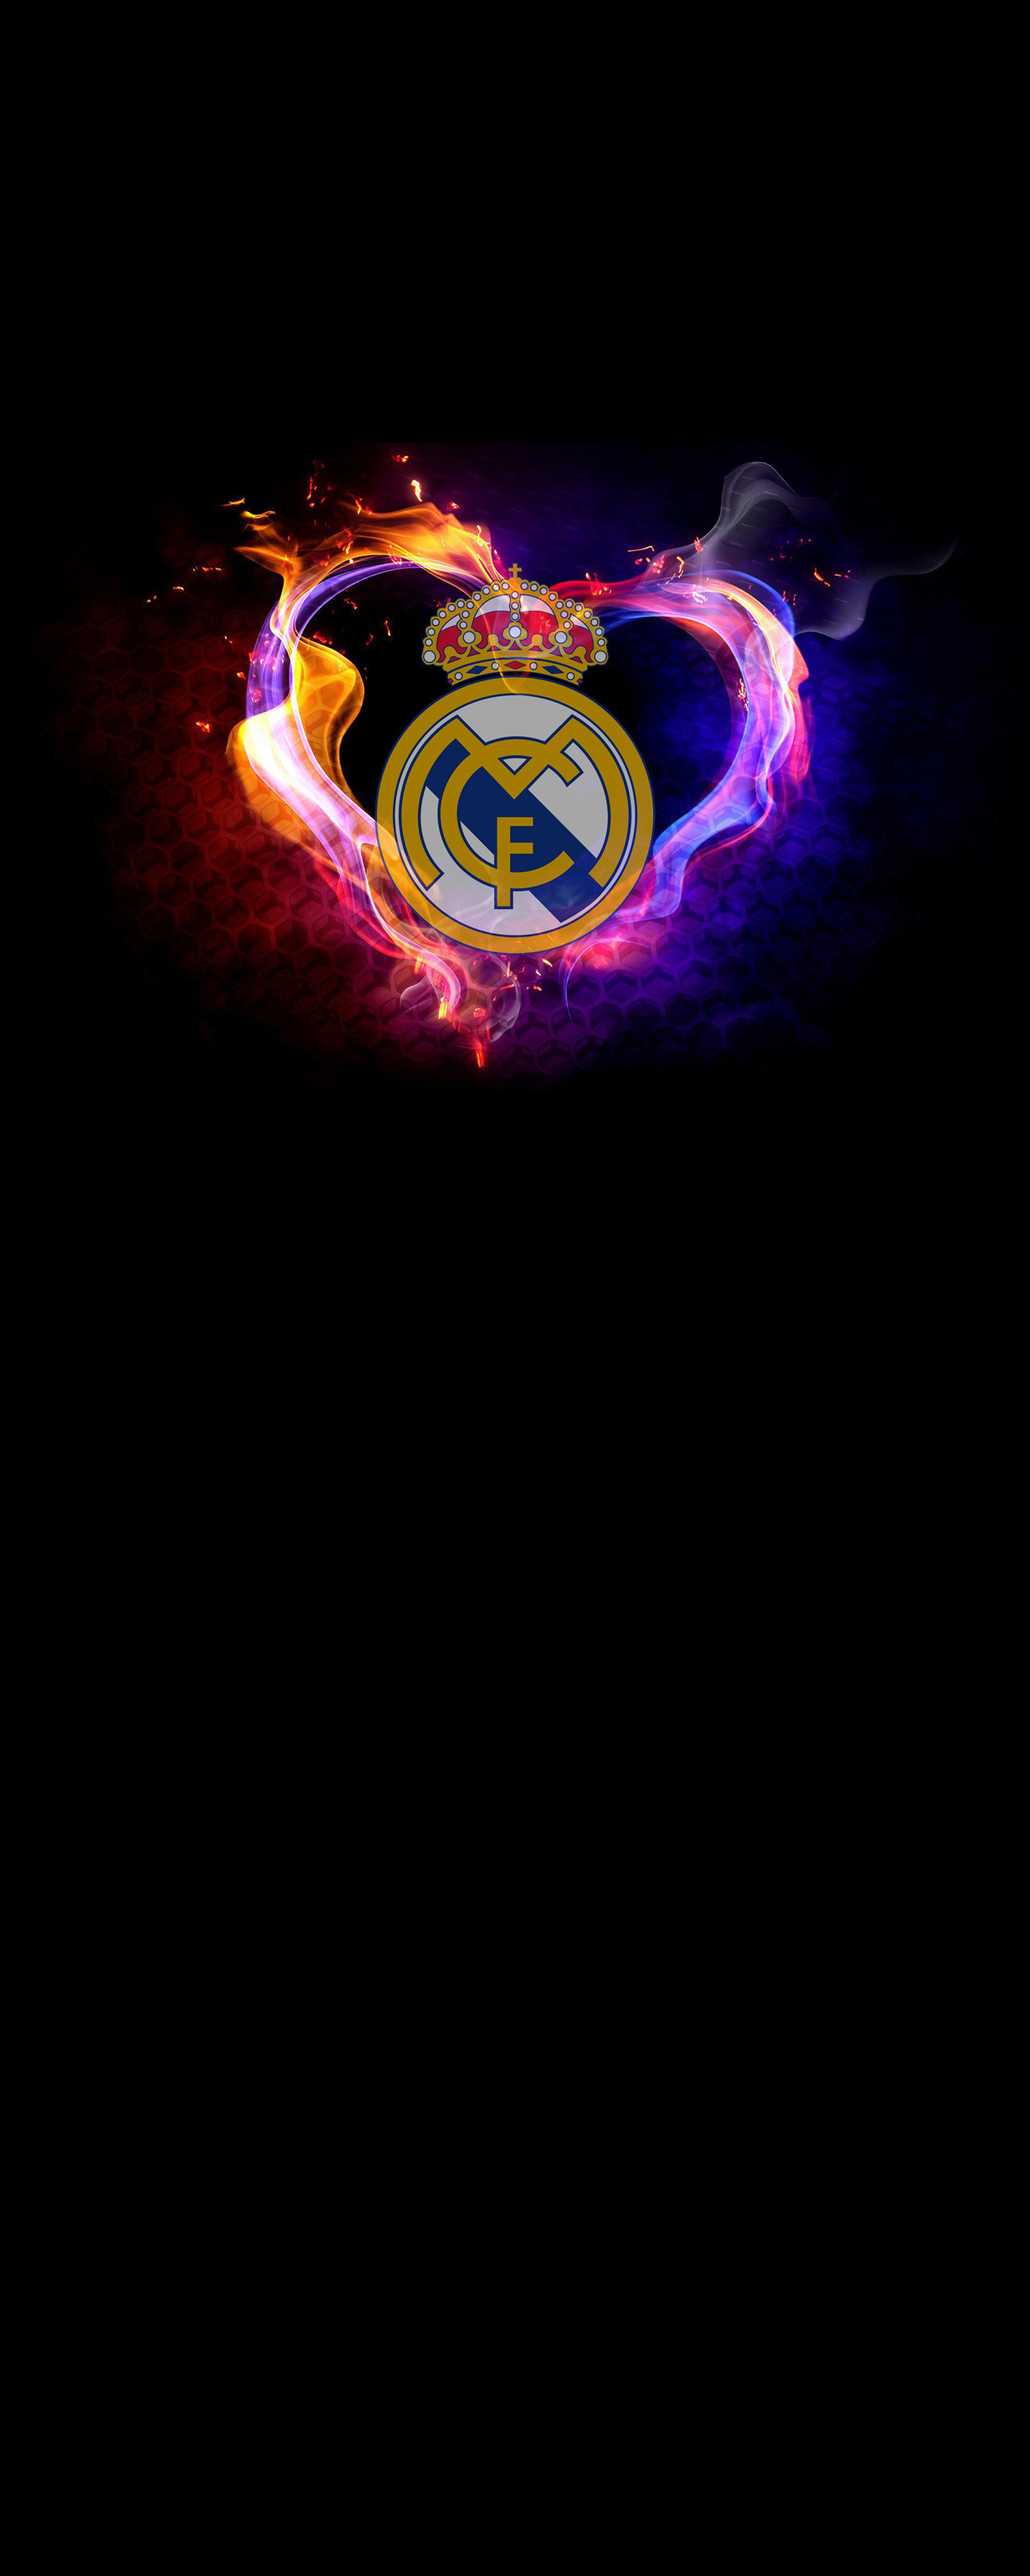
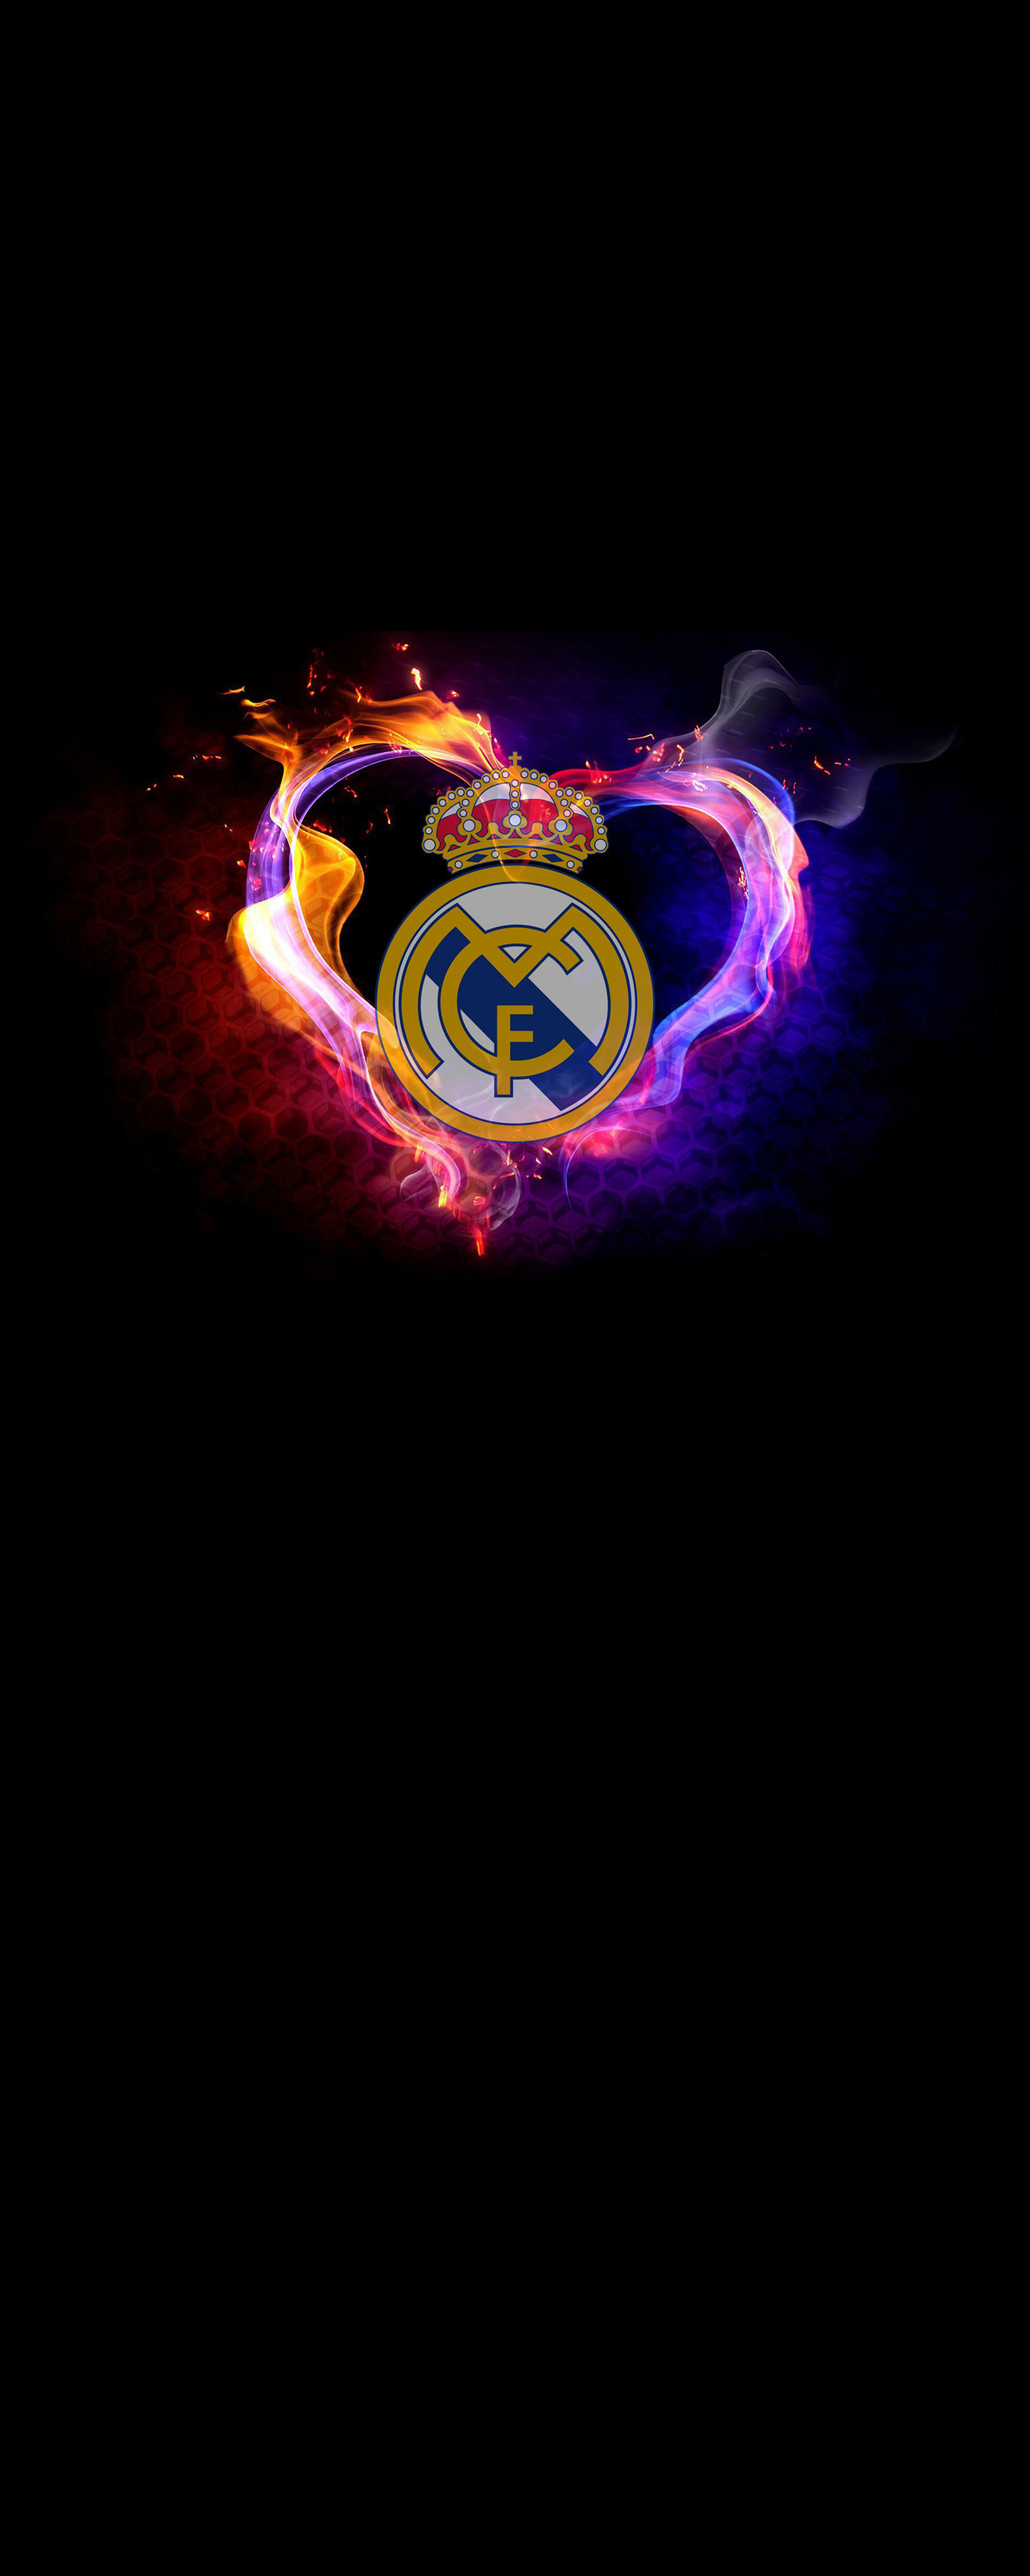
Pozadí: tmavší overlay 0.70, aktualizovaný obrázek

Changed region(s): [[0.0938, 0.1554, 0.9062, 0.4974]]

diff --git a/index.html b/index.html
@@ -582,7 +582,7 @@
       radial-gradient(ellipse at 80% 100%, rgba(255,255,255,0.08) 0%, transparent 50%),
       repeating-linear-gradient(0deg, transparent, transparent 49px, rgba(255,255,255,0.025) 49px, rgba(255,255,255,0.025) 50px),
       repeating-linear-gradient(90deg, transparent, transparent 49px, rgba(255,255,255,0.025) 49px, rgba(255,255,255,0.025) 50px),
-      linear-gradient(rgba(0,0,0,0.35), rgba(0,0,0,0.35)),
+      linear-gradient(rgba(0,0,0,0.70), rgba(0,0,0,0.70)),
       url('background_real_madrid.png');
   }
   body.bg-luke {
@@ -591,7 +591,7 @@
       radial-gradient(ellipse at 80% 100%, rgba(227,6,19,0.2) 0%, transparent 50%),
       repeating-linear-gradient(0deg, transparent, transparent 49px, rgba(255,255,255,0.025) 49px, rgba(255,255,255,0.025) 50px),
       repeating-linear-gradient(90deg, transparent, transparent 49px, rgba(255,255,255,0.025) 49px, rgba(255,255,255,0.025) 50px),
-      linear-gradient(rgba(0,0,0,0.35), rgba(0,0,0,0.35)),
+      linear-gradient(rgba(0,0,0,0.70), rgba(0,0,0,0.70)),
       url('background_real_madrid.png'); /* ← vyměň za background_psg.jpg */
   }
   body.bg-kubik {
@@ -600,7 +600,7 @@
       radial-gradient(ellipse at 80% 100%, rgba(0,77,152,0.25) 0%, transparent 50%),
       repeating-linear-gradient(0deg, transparent, transparent 49px, rgba(255,255,255,0.025) 49px, rgba(255,255,255,0.025) 50px),
       repeating-linear-gradient(90deg, transparent, transparent 49px, rgba(255,255,255,0.025) 49px, rgba(255,255,255,0.025) 50px),
-      linear-gradient(rgba(0,0,0,0.35), rgba(0,0,0,0.35)),
+      linear-gradient(rgba(0,0,0,0.70), rgba(0,0,0,0.70)),
       url('background_real_madrid.png'); /* ← vyměň za background_barcelona.jpg */
   }
   body.bg-jirik {
@@ -609,7 +609,7 @@
       radial-gradient(ellipse at 80% 100%, rgba(200,16,46,0.15) 0%, transparent 50%),
       repeating-linear-gradient(0deg, transparent, transparent 49px, rgba(255,255,255,0.025) 49px, rgba(255,255,255,0.025) 50px),
       repeating-linear-gradient(90deg, transparent, transparent 49px, rgba(255,255,255,0.025) 49px, rgba(255,255,255,0.025) 50px),
-      linear-gradient(rgba(0,0,0,0.35), rgba(0,0,0,0.35)),
+      linear-gradient(rgba(0,0,0,0.70), rgba(0,0,0,0.70)),
       url('background_real_madrid.png'); /* ← vyměň za background_liverpool.jpg */
   }
 
